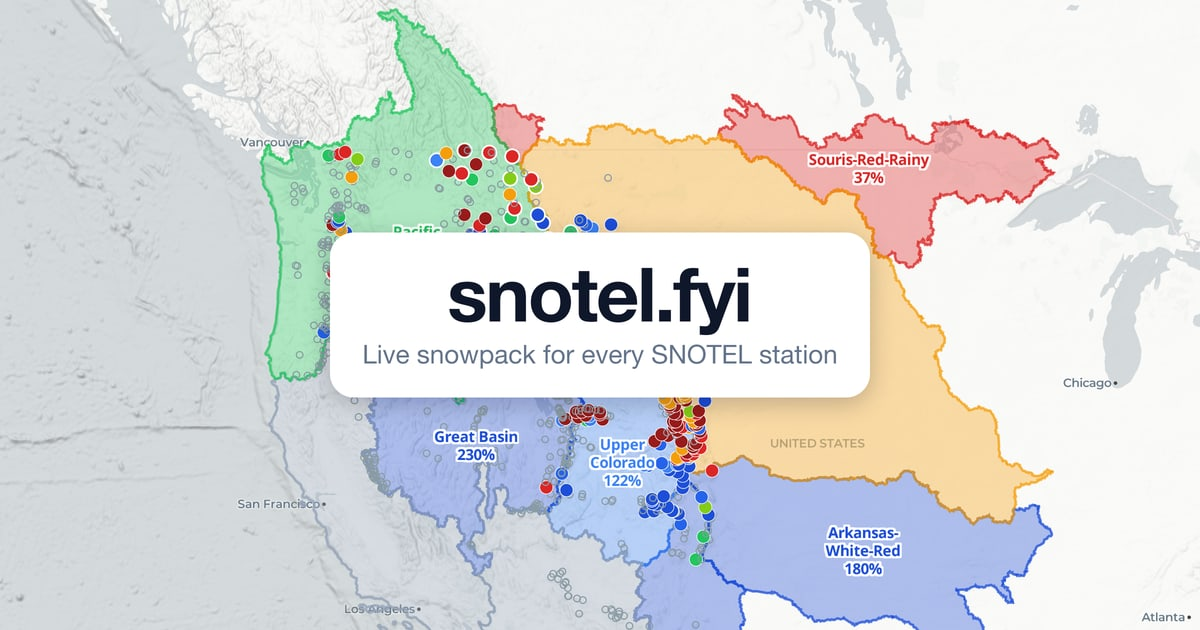
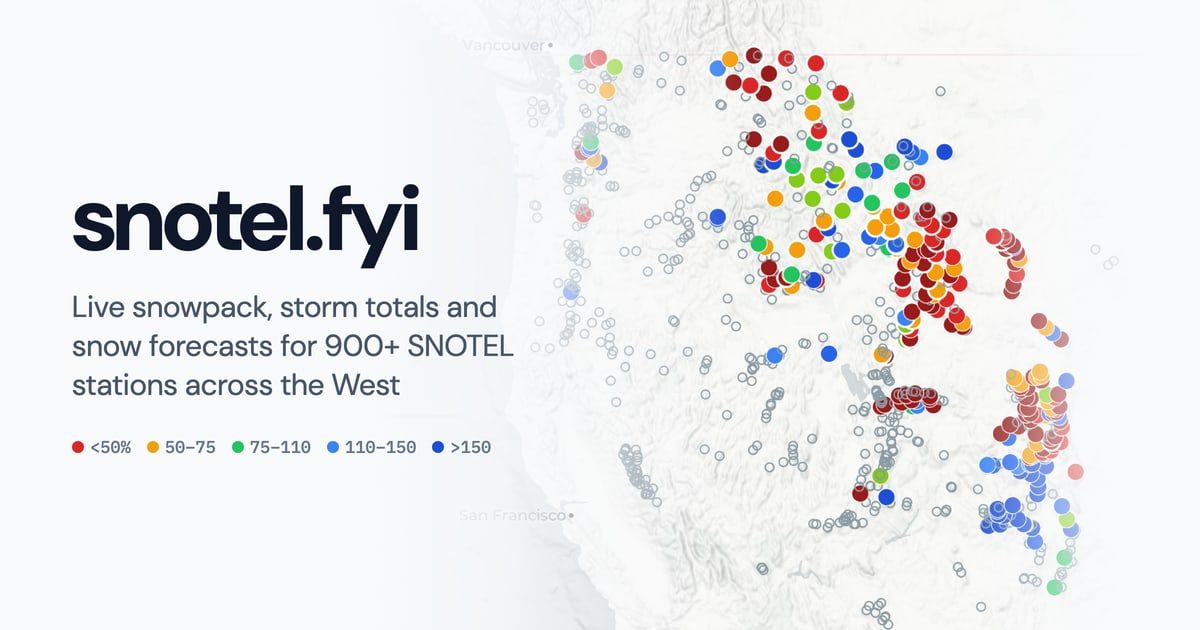
Redesign the share image, add forecasts to descriptions, put site name last in titles

diff --git a/apps/web/app/layout.tsx b/apps/web/app/layout.tsx
@@ -22,18 +22,18 @@ const dmSans = DM_Sans({
 
 export const metadata: Metadata = {
   metadataBase: new URL(SITE_URL),
-  title: "snotel.fyi · SNOTEL snowpack map",
-  description: "Interactive map of SNOTEL snowpack conditions across the western United States. Current SWE, snow depth, and percent of normal for 900+ mountain stations.",
+  title: "SNOTEL snowpack map · snotel.fyi",
+  description: "Live snowpack, storm totals and NWS snow forecasts for 900+ SNOTEL stations across the western US.",
   openGraph: {
-    title: "snotel.fyi · SNOTEL snowpack map",
-    description: "Interactive map of SNOTEL snowpack conditions across the western United States.",
+    title: "SNOTEL snowpack map · snotel.fyi",
+    description: "Live snowpack, storm totals and snow forecasts for 900+ SNOTEL stations across the West.",
     type: "website",
     images: [{ url: "/og.jpg" }],
   },
   twitter: {
     card: "summary_large_image",
-    title: "snotel.fyi · SNOTEL snowpack map",
-    description: "Interactive map of SNOTEL snowpack conditions across the western United States.",
+    title: "SNOTEL snowpack map · snotel.fyi",
+    description: "Live snowpack, storm totals and snow forecasts for 900+ SNOTEL stations across the West.",
     images: ["/og.jpg"],
   },
 };

diff --git a/apps/web/app/manifest.ts b/apps/web/app/manifest.ts
@@ -5,7 +5,7 @@ export default function manifest(): MetadataRoute.Manifest {
   return {
     name: SITE_NAME,
     short_name: "SNOTEL",
-    description: "Snowpack, snow depth and storm totals for every SNOTEL station in the western US.",
+    description: "Live snowpack, storm totals and snow forecasts for 900+ SNOTEL stations across the West.",
     start_url: "/",
     display: "standalone",
     background_color: "#F8FAFC",

diff --git a/apps/web/hooks/usePageTitle.ts b/apps/web/hooks/usePageTitle.ts
@@ -2,7 +2,7 @@
 
 import { useEffect } from "react";
 
-const DEFAULT_TITLE = "snotel.fyi · SNOTEL snowpack map";
+const DEFAULT_TITLE = "SNOTEL snowpack map · snotel.fyi";
 
 export function usePageTitle(title: string | null) {
   useEffect(() => {
